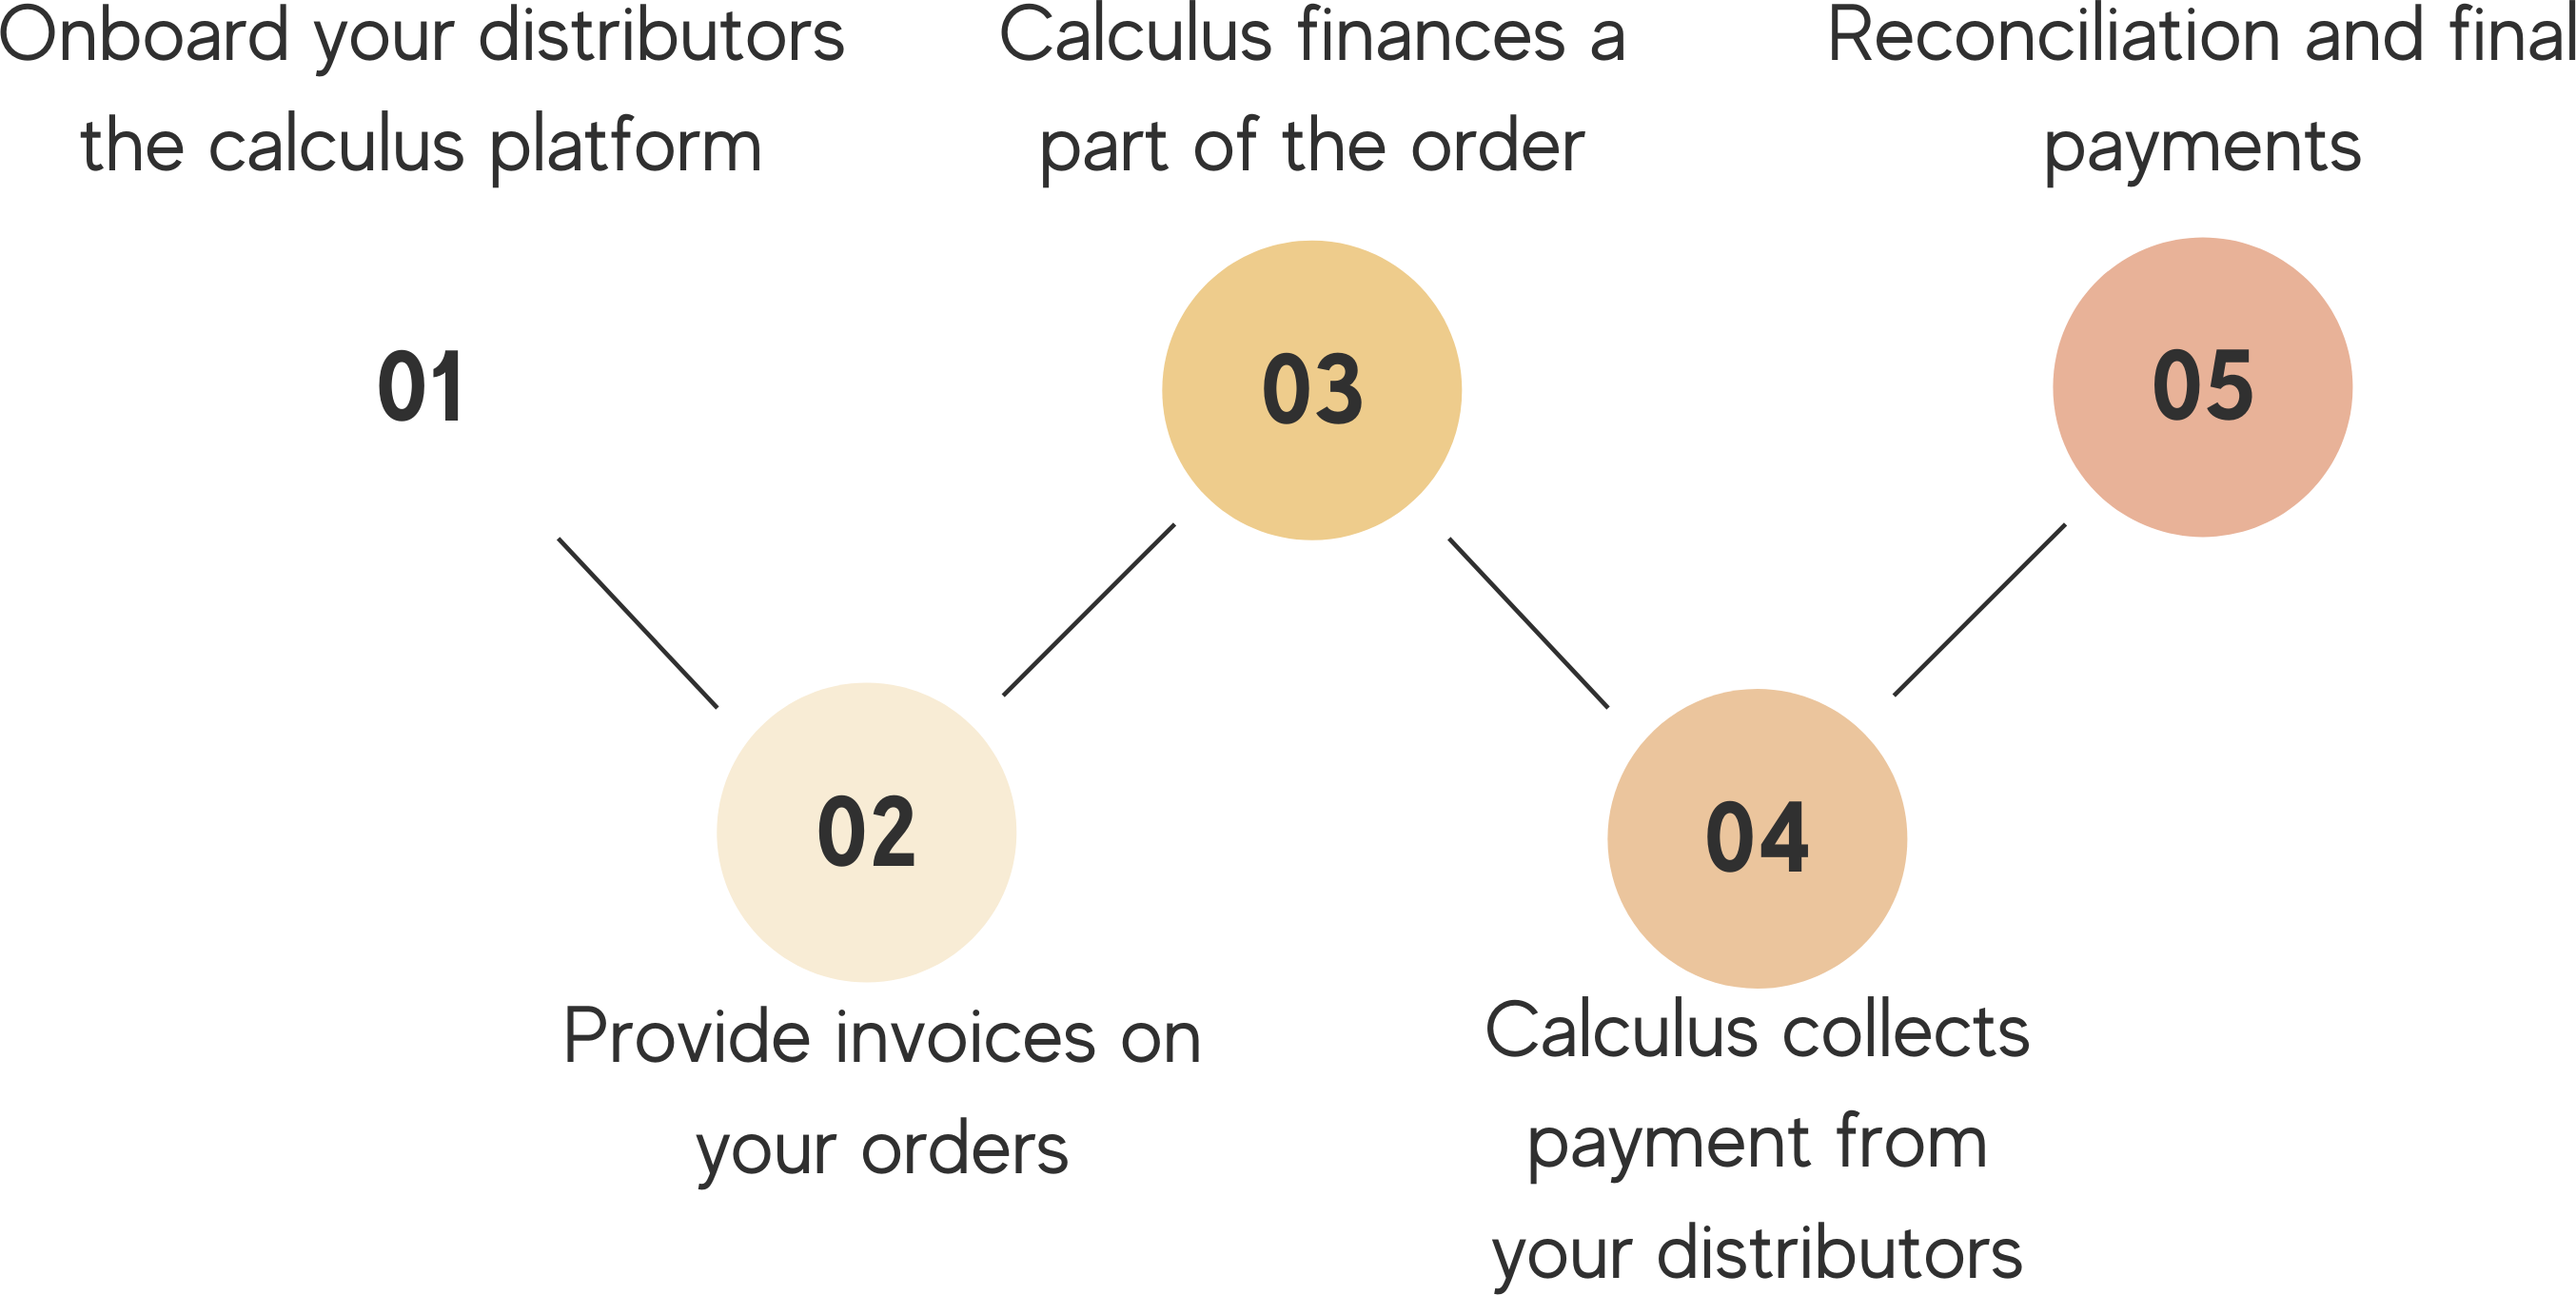
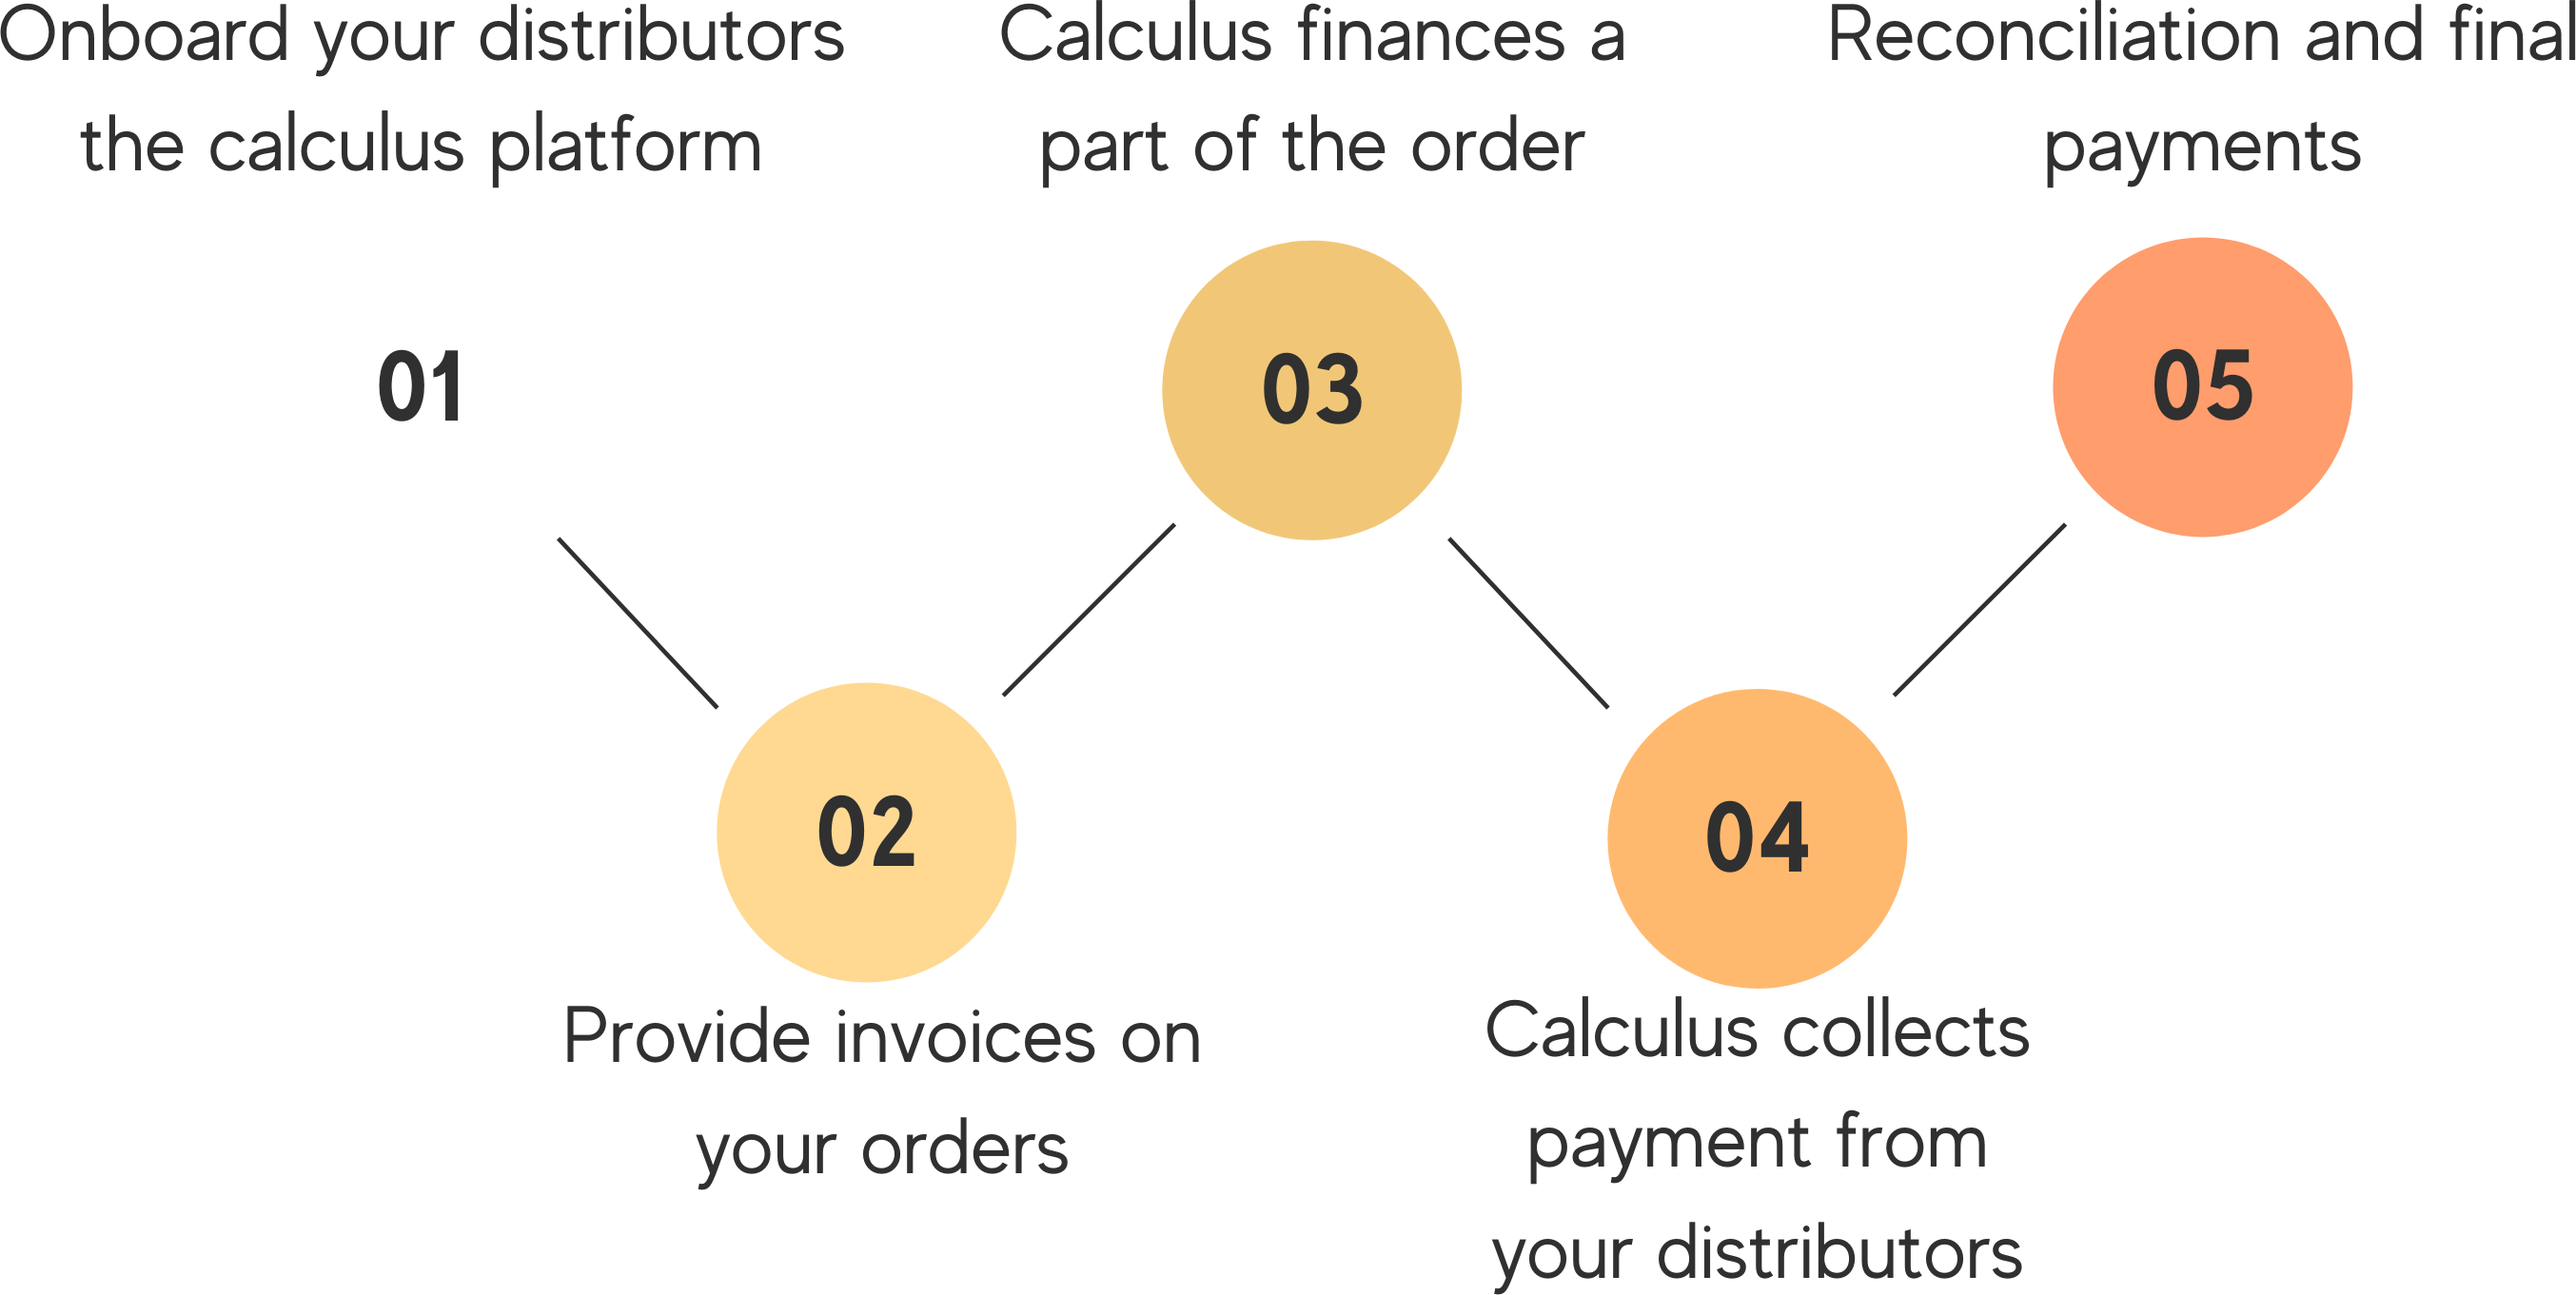
dark to light

Changed region(s): [[0.7758, 0.1852, 0.9309, 0.432], [0.2793, 0.5246, 0.4034, 0.7715], [0.6206, 0.5246, 0.7447, 0.7715]]

diff --git a/src/App.css b/src/App.css
@@ -8,9 +8,12 @@
 
   text-align: center;
   /* background-image: url('../assets/background2.jpg'); */
-  background-image: linear-gradient(to right, #7d51c4, #d848ad, #fd4f78, #f5b43b, #f5f52e);
+  /* background-image: linear-gradient(to right, #7d51c4, #d848ad, #fd4f78, #f5b43b, #f5f52e); */
   /* background: radial-gradient(circle, rgba(195,34,145,1) 0%, rgba(253,114,45,1) 100%); */
   /* background: linear-gradient(to right, #ed7979 20%, #e2c286 20% 40%, #e2e288 40% 60%, #93e693 60% 80%, #9797e6 80%); */
+
+
+
 
   background-size: 100% 100%;
 
@@ -36,7 +39,7 @@ body {
   .appContent {
     background-image: linear-gradient(70deg,
       /* #0c0c20, #1e0c20 */
-      #F49586 5%, #E7A1A4 5% 10%, #EAB6B8 10% 15%, #E2C5A8 15% 20%, #f0d4a0 20% 30%, #f2deb9 30% 40%, #F0E4CE 40% 83%, #F7EBDB 83% 100%
+      #faba43 5%, #f8c66a 5% 10%, #ffd992 10% 15%, #ffe3ae 15% 20%, #fce7c0 20% 30%, #fff1d6 30% 40%, #fff7e9 40% 83%, #fdfaf4 83% 100%
     );
   }
 }

diff --git a/src/components/intro/intro.tsx b/src/components/intro/intro.tsx
@@ -61,7 +61,7 @@ function Intro(props: IntroProps) {
           <Cell width={s ? 1 : m ? 2 : 1} className={styles.cell}>
             <Section className={styles.menu}>
               <Menu>
-                <Menu.List title={s ? "" : "Demo"}>
+                <Menu.List title={s ? "" : "Login"}>
                   <Menu.List.Item>
                     <a
                       className={styles.notionLink}
